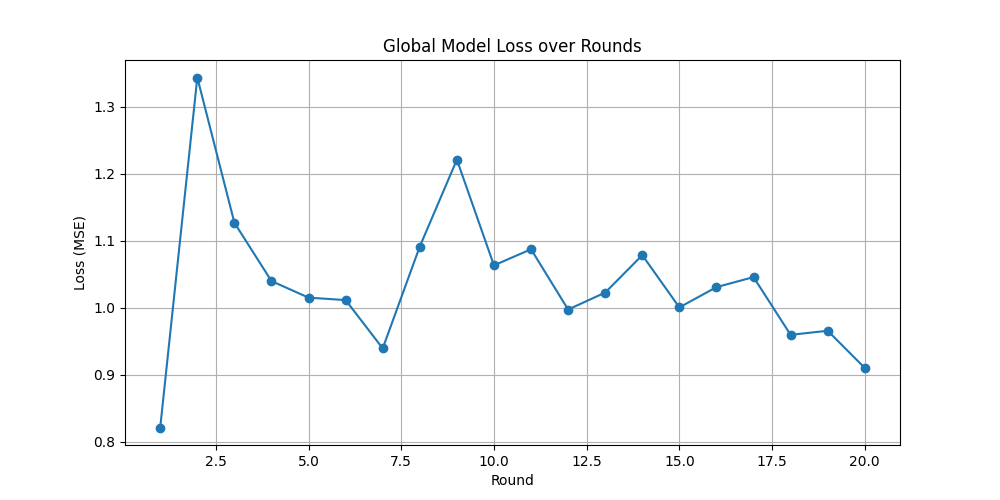
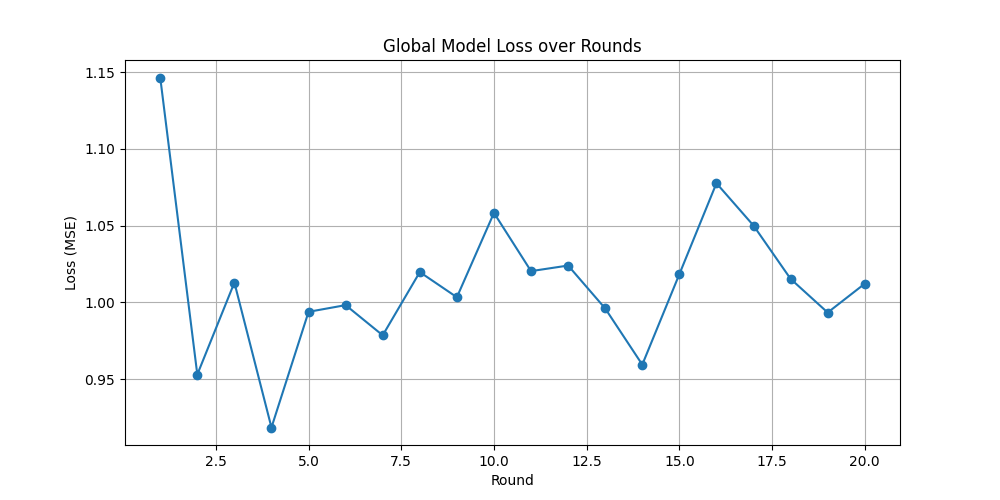
Added support for 5 clients

diff --git a/task.py b/task.py
@@ -9,45 +9,52 @@ def get_partitions_and_label():
     # Load the dataset
     data = pd.read_csv("merged_output.csv")
     data = data.drop(columns=['timestamp'])
-    
+
     # Sort the data by 'sleep_log_entry_id' to align across clients
     data.sort_values('sleep_log_entry_id', inplace=True)
     data.reset_index(drop=True, inplace=True)
-    
+
     # Fill missing values
     data.fillna(data.mean(), inplace=True)
-    
-    # Prepare features and labels
-    # Target variable
+
+    # Prepare labels
     labels = data['overall_score'].values.reshape(-1, 1)
     
     # Standardize labels
     label_scaler = StandardScaler()
     labels = label_scaler.fit_transform(labels).flatten()
-    
+
     # Partition the features among clients
-    # Client 0 features (Label holder)
-    client0_features = data[['composition_score', 'revitalization_score', 'duration_score',
-                             'deep_sleep_in_minutes', 'resting_heart_rate']]
-    
-    # Client 1 features
-    client1_features = data[['restlessness', 'minutes_asleep', 'minutes_awake',
-                             'minutes_after_wakeup', 'time_in_bed', 'efficiency',
-                             'duration', 'minutes_to_fall_asleep']]
-    
-    # Ensure that the features are numpy arrays
-    client0_features = client0_features.values
-    client1_features = client1_features.values
-    
-    # Prepare partitions
-    partitions = [client0_features, client1_features]
-    
+    # Client 0 (Label holder)
+    client0_features = data[['composition_score', 'revitalization_score']]
+
+    # Client 1
+    client1_features = data[['duration_score', 'deep_sleep_in_minutes']]
+
+    # Client 2
+    client2_features = data[['resting_heart_rate', 'restlessness']]
+
+    # Client 3
+    client3_features = data[['minutes_asleep', 'minutes_awake', 'minutes_after_wakeup']]
+
+    # Client 4
+    client4_features = data[['time_in_bed', 'efficiency', 'duration', 'minutes_to_fall_asleep']]
+
+    # Convert features to numpy arrays
+    partitions = [
+        client0_features.values,
+        client1_features.values,
+        client2_features.values,
+        client3_features.values,
+        client4_features.values,
+    ]
+
     return partitions, labels
 
 class ClientModel(nn.Module):
-    def __init__(self, input_size):
+    def __init__(self, input_size, embedding_size=4):
         super(ClientModel, self).__init__()
-        self.fc = nn.Linear(input_size, 4)
+        self.fc = nn.Linear(input_size, embedding_size)
         self.relu = nn.ReLU()
 
     def forward(self, x):

diff --git a/simulation.py b/simulation.py
@@ -11,12 +11,12 @@ partitions, labels = get_partitions_and_label()
 def client_fn(cid: str):
     print(f"Creating client with cid: {cid}")
     # Map the cid to an index in the partitions list
-    if cid in ["0", "1"]:
+    if cid in ["0", "1", "2", "3", "4"]:
         cid_int = int(cid)
         data = partitions[cid_int]
         return FlowerClient(cid_int, data).to_client()
     else:
-        # If cid is not "0" or "1", we do not create a client
+        # If cid is not in our list, we do not create a client
         print(f"Client with cid {cid} does not exist.")
         return None
 
@@ -26,15 +26,15 @@ if __name__ == "__main__":
         labels=labels,
         fraction_fit=1.0,            # Sample 100% of available clients
         fraction_evaluate=0.0,       # Disable evaluation rounds
-        min_fit_clients=2,           # Minimum number of clients to be sampled for training
-        min_available_clients=2,     # Minimum number of clients that need to be connected
+        min_fit_clients=5,           # Minimum number of clients to be sampled for training
+        min_available_clients=5,     # Minimum number of clients that need to be connected
         accept_failures=True         # Accept failures to handle clients that are not created
     )
 
     # Start the simulation
     hist = fl.simulation.start_simulation(
         client_fn=client_fn,
-        num_clients=2,                 # Total number of clients
+        num_clients=5,                 # Total number of clients
         config=fl.server.ServerConfig(num_rounds=20),
         strategy=strategy,
     )

diff --git a/strategy.py b/strategy.py
@@ -22,10 +22,10 @@ class Strategy(fl.server.strategy.FedAvg):
         labels,
         *,
         fraction_fit=1.0,
-        fraction_evaluate=1.0,
-        min_fit_clients=2,
-        min_evaluate_clients=2,
-        min_available_clients=2,
+        fraction_evaluate=1.0,  # Disable client-side evaluation
+        min_fit_clients=5,
+        min_evaluate_clients=3,
+        min_available_clients=5,
         evaluate_fn=None,
         on_fit_config_fn=None,
         on_evaluate_config_fn=None,
@@ -49,7 +49,7 @@ class Strategy(fl.server.strategy.FedAvg):
             evaluate_metrics_aggregation_fn=evaluate_metrics_aggregation_fn,
         )
         # The input size is sum of the embeddings from all clients
-        total_embedding_size = 4 * 2  # Each client outputs embedding of size 4
+        total_embedding_size = 4 * 5  # Each client outputs embedding of size 4
         self.model = ServerModel(total_embedding_size)
         self.initial_parameters = ndarrays_to_parameters(
             [val.cpu().numpy() for _, val in self.model.state_dict().items()]
@@ -95,7 +95,8 @@ class Strategy(fl.server.strategy.FedAvg):
 
         # Collect gradients to send back to clients
         # Each client gets the gradient corresponding to its embedding
-        embedding_grads = embedding_server.grad.split(4, dim=1)
+        embedding_sizes = [4] * 5  # Embedding sizes per client
+        embedding_grads = embedding_server.grad.split(embedding_sizes, dim=1)
         np_grads = [grad.numpy() for grad in embedding_grads]
         parameters_aggregated = ndarrays_to_parameters(np_grads)
 

diff --git a/client.py b/client.py
@@ -11,7 +11,8 @@ class FlowerClient(fl.client.NumPyClient):
         # Standardize the data
         self.scaler = StandardScaler()
         self.train = torch.tensor(self.scaler.fit_transform(data)).float()
-        self.model = ClientModel(input_size=self.train.shape[1])
+        input_size = self.train.shape[1]
+        self.model = ClientModel(input_size=input_size, embedding_size=4)
         self.optimizer = torch.optim.Adam(self.model.parameters(), lr=0.001)
         self.embedding = None
 
